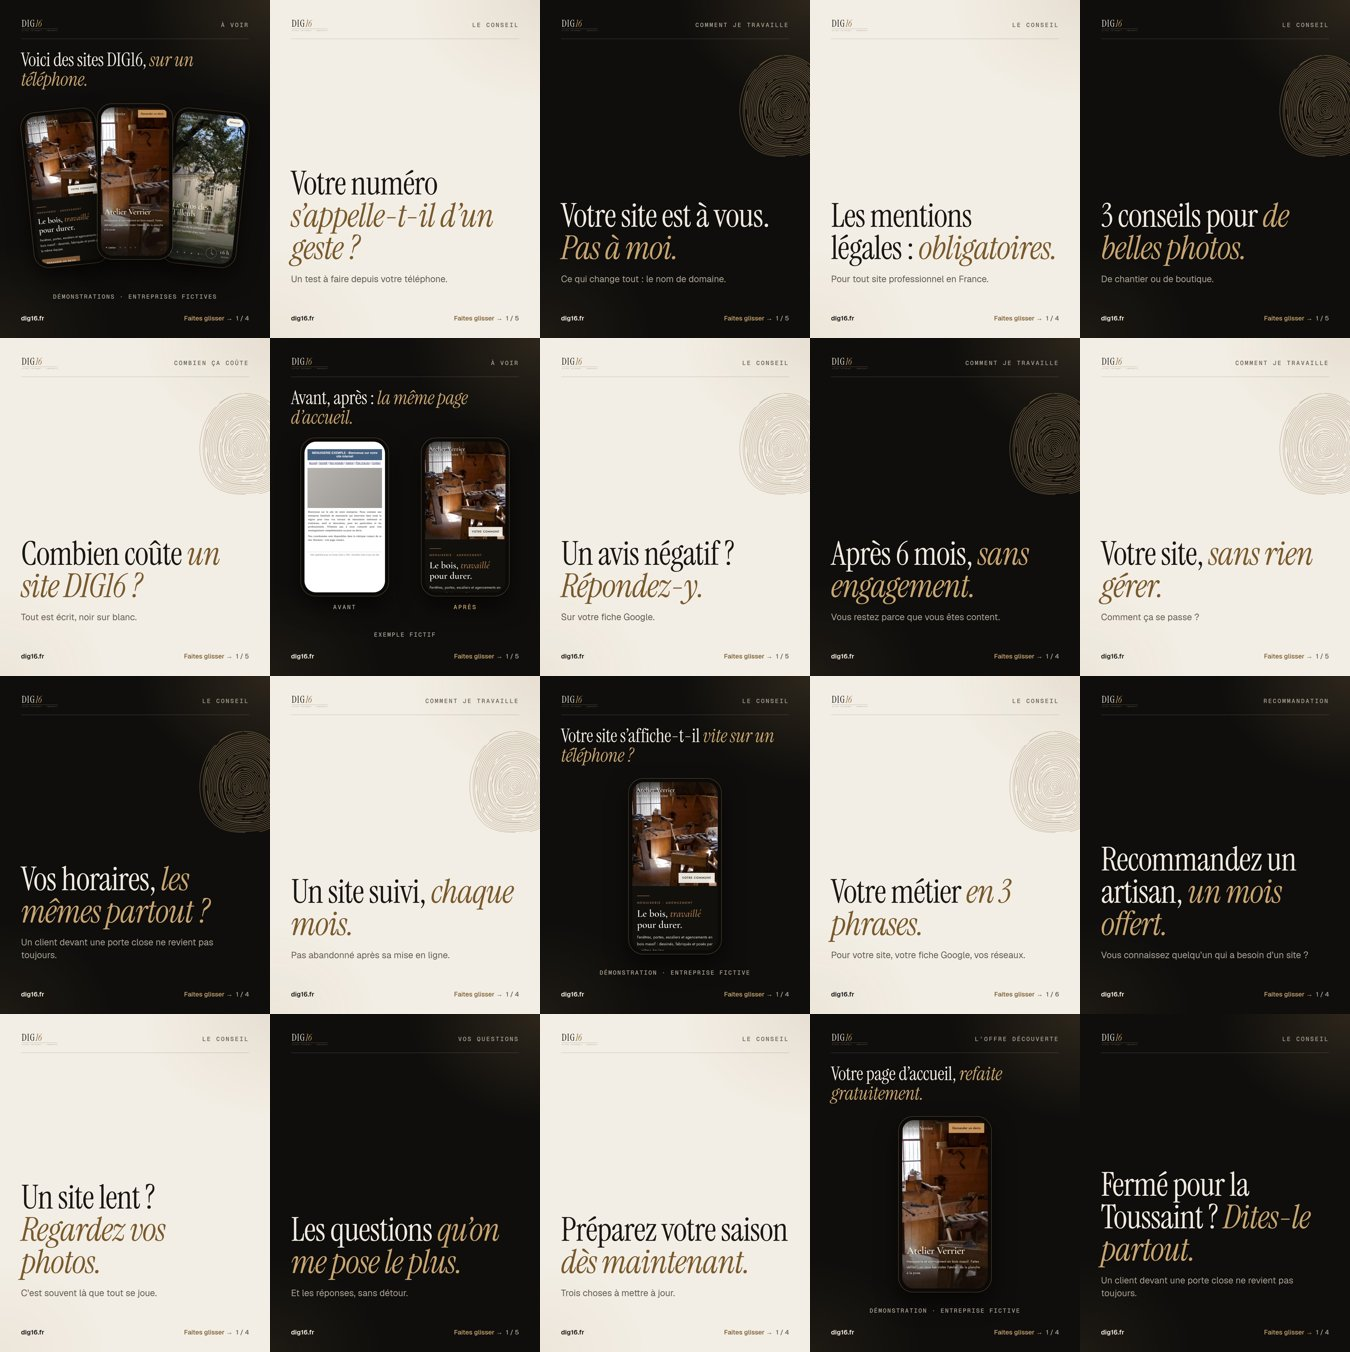
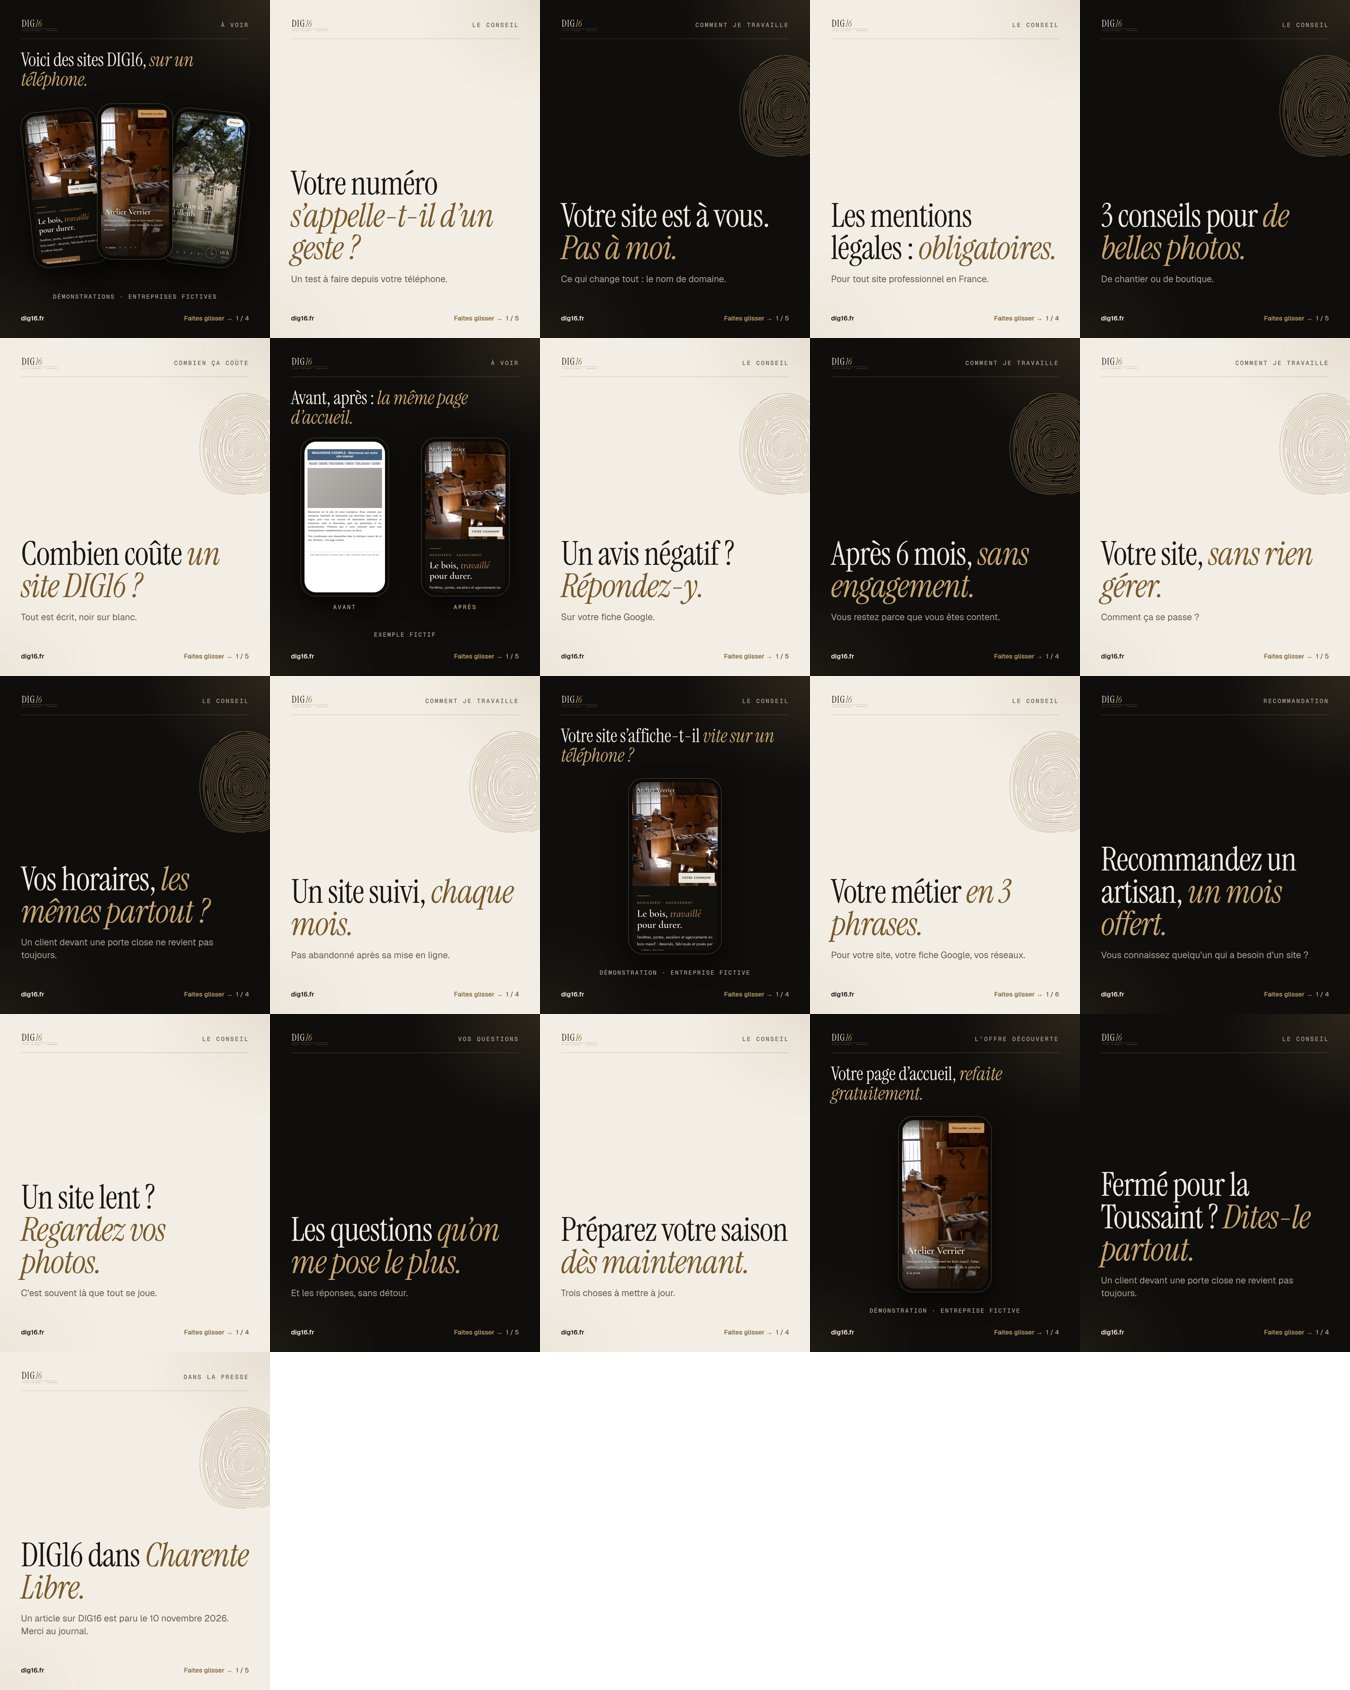
Annonce de la parution Charente Libre : carrousel p21, textes par support, suivi
Claude-Session: https://claude.ai/code/session_01BJSfhZ2eq5ejDDG1R3HzHL

diff --git a/ai-business-lab/chasse-demande/outils/marque/publications_v2.py b/ai-business-lab/chasse-demande/outils/marque/publications_v2.py
@@ -293,6 +293,24 @@ SERIE = [
                 "Un client devant une porte close ne revient pas toujours.\n"
                 "Sur un site DIG16, un email suffit : horaires, congés, promotions sont à jour sous 3 jours ouvrés.",
      "alt": "Le conseil DIG16 : avant la Toussaint, indiquer sa fermeture sur la fiche Google, le site et la page Facebook."},
+    # 11/11/2026 : parution dans Charente Libre (10/11, 14 h 38). Texte à nous, sans reprise de l'article ni de sa photo :
+    # on ajoute ce qui manque (site pensé pour le téléphone, « DIG16 », 49 € par mois, dig16.fr). Jamais « chevronné ».
+    {"id": "p21", "date": "2026-11-12T12:15:00", "theme": "clair", "etiquette": "Dans la presse", "metricool": None,
+     "titre_tiktok": "DIG16 dans Charente Libre",
+     "images": [
+         ("cover", "DIG16 dans *Charente Libre.*",
+          "Un article sur DIG16 est paru le 10 novembre 2026. Merci au journal."),
+         ("point", "", "L'essentiel, pour moi : *un site pensé pour le téléphone.*",
+          "Vos clients vous cherchent sur leur téléphone. Ils font défiler votre site du bout du pouce."),
+         ("phone", "Tout se lit *du bout du pouce.*", ESSENTIEL, "Démonstration · entreprise fictive"),
+         ("prix",),
+         APPEL],
+     "legende": "DIG16 est dans Charente Libre 📰 Un article sur mon entreprise est paru le 10 novembre 2026. "
+                "Merci au journal !\n"
+                "L'essentiel, pour moi : un site DIG16 est pensé d'abord pour le "
+                "téléphone. Vos clients le font défiler du bout du pouce et vous appellent en un geste.\n"
+                "Le prix : 0 € de création, puis dès 49 € par mois, hébergement, modifications et suivi compris.",
+     "alt": "DIG16 dans Charente Libre, article du 10 novembre 2026 : un site pensé pour le téléphone, dès 49 € par mois."},
 ]
 
 

diff --git a/ai-business-lab/chasse-demande/64-mise-en-ordre-administrative.md b/ai-business-lab/chasse-demande/64-mise-en-ordre-administrative.md
@@ -38,6 +38,7 @@ la déplacer à la fin de ce fichier d'archives, sans la réécrire.
 | Communication | **02/11 : mails de relais du guide envoyés** — **03/11 : la mairie de Ruffec a répondu (à l'utilisateur) en le renvoyant vers Atout Ruffec, dont il fait déjà partie : réglé ; seule la CCI sera relancée le 12/11** (CCI de la Charente et mairie de Ruffec ; décision de l'utilisateur du 19/10 « envoie dans deux semaines ») : guide dig16.fr/guide, signature texte + image vérifiées ; Val de Charente et Atout Ruffec exclus (décisions de l'utilisateur) | Relance unique le 12/11 si pas de réponse (rappel programmé) | Envoyé |
 | Réseaux | **01/11 : stories de novembre programmées dans Buffer** (images relues : aucune affirmation périmée ; story du 09/11 exclue) : Instagram et Facebook les 02, 04, 06, 11, 13, 16, 18 et 20/11 à 18 h 50 (16 envois). Puis **Zapier a refusé** (« task limit for the current billing period ») : son cycle gratuit ne suit pas le mois civil. **Restent** : stories des 25 et 27/11 (Instagram et Facebook) → à programmer quand Zapier repart (vérifié par le point du soir), sinon pack manuel la veille. Shorts YouTube Zapier du 02/11 et 04/11 : repli prévu par vidIQ (envoi YouTube) | Claude | En cours |
 | Administratif | Étapes 1 à 9 du tableau ci-dessous | § tableau | voir colonne État |
+| Communication | **Annonce de la parution Charente Libre sur tous les supports** (demande du 11/11) : carrousel `p21` « Dans la presse » (5 images + story + 4 images X, 0 alerte), textes par support dans `supports/publications-v2/presse-charente-libre-1111.md`, relus par un agent en lecture seule. Constat : quota Metricool de novembre plein (9 parues + 11 programmées = 20 sur 20, compté le 11/11) → carrousel et story par Buffer ; post Google : remplacer le texte du post du 13/11 (accord demandé) | Utilisateur : « oui » sur l'aperçu, puis X, groupes et partage à la main ; Claude : site (mention + lien, tests, IndexNow), programmation, vérification en ligne | **11/11 : aperçu envoyé, en attente du « oui »** ; rien n'est publié ni mis sur le site |
 | Communication | **Rendez-vous Charente Libre mardi 27/10, 9 h 30** (correspondant Nord-Charente) : fiche et aide-mémoire revérifiés et mis à jour le 26/10, 2 PDF + logo renvoyés | `supports/Dig-Presse-Charente-Libre.pdf` (aide-mémoire, pour l'utilisateur) et `supports/Dig-Presentation-DIG16.pdf` (page 1, pour le journaliste) | **27/10 : rendez-vous fait.** Avis de l'utilisateur : échange moyennement satisfaisant, interlocuteur peu à l'écoute ; si l'article est imprécis, l'utilisateur recontactera Charente Libre pour le corriger. **Surveillance quotidienne de la parution** (demande du 27/10) : rappel « Parution Charente Libre » chaque jour vers midi, heure de Paris, pendant 3 semaines, avec `outils/veille_presse.py` (Google Actualités, plan du site quand il est accessible), une recherche dans charentelibre.fr par moteur de recherche et la boîte mail. Les rubriques du site bloquent les robots (403) : on ne contourne pas. L'édition papier reste invisible pour Claude **ARTICLE PARU (trouvé le 11/11 à midi, mis en ligne le 10/11 d'après le moteur de recherche)** : « Ruffec : avec DIG 16, un web designer pour créer son site internet », https://www.charentelibre.fr/charente/ruffec/ruffec-avec-dig-16-un-web-designer-pour-creer-son-site-internet-31463508.php (lu par Tavily, partie visible sans abonnement). Comparé à la fiche presse et à dig16.fr : aucune erreur de fait (Ruffec, Charente, artisans et commerçants, démonstration gratuite, suivi, numéro de téléphone identique à celui du site, pas de « test du pouce ») ; 3 imprécisions : « DIG 16 » écrit avec une espace, « base de 49 euros » sans « par mois », adresse dig16.fr absente de la partie visible. Envoyé à l'utilisateur le 11/11 ; demande de correction et partage sur les réseaux : à sa décision. Rappel quotidien désactivé le 11/11 **11/11 (après-midi)** : date confirmée par la capture de l'utilisateur (publié le 10/11/2026 à 14 h 38). L'utilisateur est déçu : « informaticien chevronné » (qu'il dit ne pas être), le message principal (site consulté du bout du pouce sur téléphone) absent, seul le téléphone en coordonnées. Il a appelé le correspondant, qui renvoie à la rédaction du journal ; **nouvelle interview : l'utilisateur le rappelle vers le 25/11** (rappel programmé le 24/11 : fiche courte des messages clés à lui remettre par écrit) **11/11 (soir) : fiche d'une page prête** (`Dig-Fiche-entretien-Charente-Libre.pdf`, privée, dans le Drive « Dig » ; non versée au dépôt car elle porte le téléphone) : nom exact « DIG16 », phrase de présentation (« créateur de sites internet pour artisans et commerçants »), message du pouce, 5 faits relus sur dig16.fr le 11/11, 3 citations, coordonnées complètes, ligne « à écrire ainsi ». Contrôle 44 fait (orthographe, 2 moteurs d'affichage, débordement mesuré, relecteur en lecture seule : 1 défaut corrigé, la limite des modifications par formule). **11/11 (soir, suite) : citations validées par l'utilisateur (« oui ») ; son nom ajouté sous les citations, lu dans les mentions légales de dig16.fr (mises à jour le 05/11/2026) ; PDF régénéré et renvoyé.** La copie du Drive « Dig » est l'ancienne version (renommée « ANCIENNE VERSION ») : le connecteur Drive n'accepte plus l'envoi d'un fichier depuis cette session, la version finale est à enregistrer par l'utilisateur. **Reste : c'est lui qui remet la fiche au correspondant vers le 25/11 ; rien n'est envoyé par Claude** |
 | Organisation | **10/11 : grand ménage, actions 1 à 5 validées par l'utilisateur** (« oui 1 à 5 ») : action 2 faite (35 outils remis sur le chemin stable du navigateur, module `playwright` réinstallé au démarrage, `test_pages.py` sans alerte, leçon du 10/11) | Claude, dans une nouvelle conversation | **10/11 après-midi : actions 3, 4 et 5 faites.** 3) site, antisèche d'appel et textes d'appel de `50` relus : prix et promesses cohérents partout, aucune promesse retirée encore affichée, rien à changer sur le site. 4) faits périmés corrigés dans `CLAUDE.md` et `consignes-detaillees.md` (un seul point par jour à 07:34, site ouvert, formulaire actif, Threads retiré de `50`). 5) `controle_global.py` : contrôle de la file finance retiré, avertissement de date corrigé, cookie du relais reposé (17/17). **Décidé le 10/11** (choix laissé à Claude par l'utilisateur) : pas de pages par commune, une seule page départementale qui cite les villes principales ; source : règles Google sur le spam, « pages satellites » (developers.google.com/search/docs/essentials/spam-policies, mise à jour le 31/08/2026) ; à revoir avec les chiffres réels de la mesure du 07/12. **10/11 (soir) : action 10 faite** (accord de l'utilisateur : « fais pour le mieux ») : `64` § 0 (65 lignes finies vers `archives/64-liste-unique-terminees.md`), `46` (registre vers `46-registre-videos.md`, actions finies vers `archives/46-a-faire-termines.md`), `lecons.md` (règles courtes ; récit dans `lecons-detail.md`), boîte à outils (catalogue vers `boite-a-outils-catalogue.md`) ; rien supprimé, contrôle ligne à ligne ; renvois et `CARTE.md` à jour. **10/11 (soir) : actions 6 à 9 faites.** 6) 32 tâches actives lues, aucune modifiée ; 9 changements proposés à l'utilisateur (chemin du navigateur périmé dans le point du matin, « une ligne dans 46 » à remplacer par `46-registre-videos.md` dans 6 tâches, Shorts YouTube sans calendrier après le 19/11, « Contrôle Slack classic » hors DIG16, carnet Envers à trancher). 7) offres gratuites de Metricool, Zapier, DocuSeal, Indy, Cloudflare, Buffer et Vercel relues à la source le 10/11 : aucun chiffre faux ; ajoutés à l'inventaire et aux quotas : Buffer, Cloudflare Workers et D1, Vercel, limite DocuSeal de 10 demandes de signature par mois ; **alerte : Vercel Hobby est réservé à l'usage non commercial** (page « fair use », mise à jour le 14/09/2026) alors que le relais et deux sites de démonstration y sont. 8) réserve : 2 outils proposés (`review-contract` avant l'avocat du 19/11, débriefing après appels avec `discovery-coach`). 9) 4 automatisations gratuites proposées, rien construit. **Réglé le 10/11** (voir la ligne « tâches planifiées, suite du grand ménage ») : tâches, Vercel (à la première signature), sauvegarde quotidienne, compteur DocuSeal ; reste seulement le débriefing dicté après les appels |
 | Référencement | **05/11 : objectif « premier sur “création site web Charente” »** (demande de l'utilisateur) : diagnostic (indexé, 1 impression en 28 j, carte locale dominée par des fiches à 19-99 avis) ; page `/creation-site-internet-charente/` publiée ; plan dans `67` § 7 | Claude : mesure le 07/12 ; ~~lien Atout Ruffec~~ sans objet (05/11 : l'association n'a pas de site, tout passe par WhatsApp, coordonnées déjà données) ; **05/11 : 4 services ajoutés à la fiche Google par l'utilisateur (« C'est bon »)**, descriptions et villes de la zone demandées, contrôle par Claude le 07/11 ; avis du premier client | — |

diff --git a/ai-business-lab/chasse-demande/supports/publications-v2/presse-charente-libre-1111.md b/ai-business-lab/chasse-demande/supports/publications-v2/presse-charente-libre-1111.md
@@ -1,0 +1,68 @@
+# Annonce « DIG16 dans Charente Libre » (préparée le 11/11/2026, en attente du « oui » de l'utilisateur)
+
+Source vérifiée le 11/11/2026 (page lue directement) : « Ruffec : avec DIG 16, un web designer pour créer son site
+internet », Charente Libre, publié le 10 novembre 2026 à 14 h 38, article en partie réservé aux abonnés.
+Lien : https://www.charentelibre.fr/charente/ruffec/ruffec-avec-dig-16-un-web-designer-pour-creer-son-site-internet-31463508.php
+
+Règles : texte à nous (rien de recopié de l'article, pas sa photo) ; on ajoute ce qui manque (site pensé pour le
+téléphone, « DIG16 », 49 € par mois, dig16.fr) ; jamais le mot « chevronné » ; visuel `p21` de `publications_v2.py`
+(charte, polices du site, sans visage, sans coordonnées). Chaque phrase reprend un texte déjà publié (bio, légendes de
+la série 2, page d'accueil).
+
+## 1. Instagram et TikTok (carrousel p21-1 à p21-5) — titre TikTok : « DIG16 dans Charente Libre »
+
+DIG16 est dans Charente Libre 📰
+Un article sur mon entreprise est paru le 10 novembre 2026. Merci au journal !
+L'essentiel, pour moi : un site DIG16 est pensé d'abord pour le téléphone.
+📱 Vos clients le font défiler du bout du pouce et vous appellent en un geste.
+Le prix : 0 € de création, puis dès 49 € par mois, hébergement, modifications et suivi compris.
+
+📰 L'article est sur le site de Charente Libre, rubrique Ruffec (lien direct sur dig16.fr).
+👉 Votre page d'accueil refaite gratuitement, pour voir avant de décider : https://dig16.fr
+
+#Charente #Ruffec #artisan
+
+## 2. Page Facebook (même carrousel)
+
+DIG16 est dans Charente Libre 📰
+Un article sur mon entreprise est paru le 10 novembre 2026. Merci au journal !
+L'essentiel, pour moi : un site DIG16 est pensé d'abord pour le téléphone.
+📱 Vos clients le font défiler du bout du pouce et vous appellent en un geste.
+Le prix : 0 € de création, puis dès 49 € par mois, hébergement, modifications et suivi compris.
+
+📰 L'article : https://www.charentelibre.fr/charente/ruffec/ruffec-avec-dig-16-un-web-designer-pour-creer-son-site-internet-31463508.php
+👉 Votre page d'accueil refaite gratuitement, pour voir avant de décider : écrivez-moi en message privé.
+
+#Charente #Ruffec #artisan
+
+## 3. Story Instagram et Facebook
+
+Image `p21-story.jpg` (couverture dans la zone sûre), sans texte, 20 minutes après le carrousel.
+
+## 4. Fiche Google (post « actualité », sans téléphone, email ni réseau social)
+
+DIG16 dans Charente Libre : un article sur l'entreprise est paru le 10 novembre 2026. Merci au journal !
+Ce qu'il faut retenir : un site DIG16 est pensé d'abord pour le téléphone. Vos clients le font défiler du bout du pouce et vous appellent en un geste.
+0 € de création, puis dès 49 € par mois : hébergement, modifications et suivi compris.
+Votre page d'accueil refaite gratuitement, pour voir avant de décider : dig16.fr
+
+## 5. X (publié à la main, 4 images `x/p21-x1.jpg` à `p21-x4.jpg`)
+
+DIG16 est dans Charente Libre 📰 (article du 10 novembre)
+L'essentiel, pour moi : un site pensé d'abord pour le téléphone, que vos clients font défiler du bout du pouce 📱
+0 € de création, puis dès 49 € par mois.
+👉 https://dig16.fr
+L'article : https://www.charentelibre.fr/charente/ruffec/ruffec-avec-dig-16-un-web-designer-pour-creer-son-site-internet-31463508.php
+
+## 6. Groupes Facebook, groupe des professionnels, profil personnel (partage de la publication de la page, sans lien)
+
+Bonjour à tous. Charente Libre vient de consacrer un article à DIG16, mon entreprise de sites internet à Ruffec, pour les artisans et commerçants. L'essentiel, pour moi : des sites pensés d'abord pour le téléphone, qu'on fait défiler du bout du pouce. Si vous connaissez un artisan difficile à trouver sur internet, je refais sa page d'accueil gratuitement pour qu'il voie ce que ça donne.
+
+## 7. YouTube (onglet « Posts » de la chaîne, à la main, facultatif)
+
+DIG16 est dans Charente Libre 📰 (article du 10 novembre 2026). L'essentiel, pour moi : un site DIG16 est pensé d'abord pour le téléphone, vos clients le font défiler du bout du pouce. 0 € de création, puis dès 49 € par mois. 👉 https://dig16.fr
+
+## 8. Site dig16.fr (après le « oui »)
+
+- Accueil, sous « Mes engagements » : « Vu dans Charente Libre · article du 10 novembre 2026 » (lien vers l'article).
+- Page « Le projet », « Où en est le projet » : « Charente Libre a consacré un article à DIG16 le 10 novembre 2026 » (lien).

diff --git a/ai-business-lab/chasse-demande/61-plan-publicite.md b/ai-business-lab/chasse-demande/61-plan-publicite.md
@@ -185,3 +185,7 @@ image de téléphone mal placée, aucun numéro de téléphone ni « @ » sur le
 trait d'union jamais coupés. Les mots « entreprise fictive » figurent sur chaque capture de démonstration.
 
 **Audit du 19/10** : `69-audit-campagne-1910.md` (note, chiffres, plan d'action, réponses prêtes aux messages privés).
+
+## 7. Parution Charente Libre du 10/11/2026 : annonce sur tous les supports (préparée le 11/11)
+
+Article : « Ruffec : avec DIG 16, un web designer pour créer son site internet » (10/11/2026, 14 h 38, en partie réservé aux abonnés). Annonce avec un texte à nous, qui ajoute ce qui manquait (site pensé pour le téléphone, « DIG16 », 49 € par mois, dig16.fr) ; ni copie de l'article ni photo du journal ; jamais « chevronné ». Carrousel `p21` (`publications_v2.py`), textes dans `supports/publications-v2/presse-charente-libre-1111.md`. Supports : Facebook, Instagram (publication + story), TikTok par Buffer (quota Metricool de novembre plein : 20 sur 20) ; fiche Google par Metricool en remplaçant le texte du post du 13/11 ; X, groupes Facebook, groupe des professionnels et onglet Posts de YouTube à la main ; site : mention « Vu dans Charente Libre » sur l'accueil et « Le projet ». Signature de mail et imprimés : non (attendre la nouvelle interview prévue vers le 25/11). État au 11/11 : aperçu envoyé, en attente de validation.
